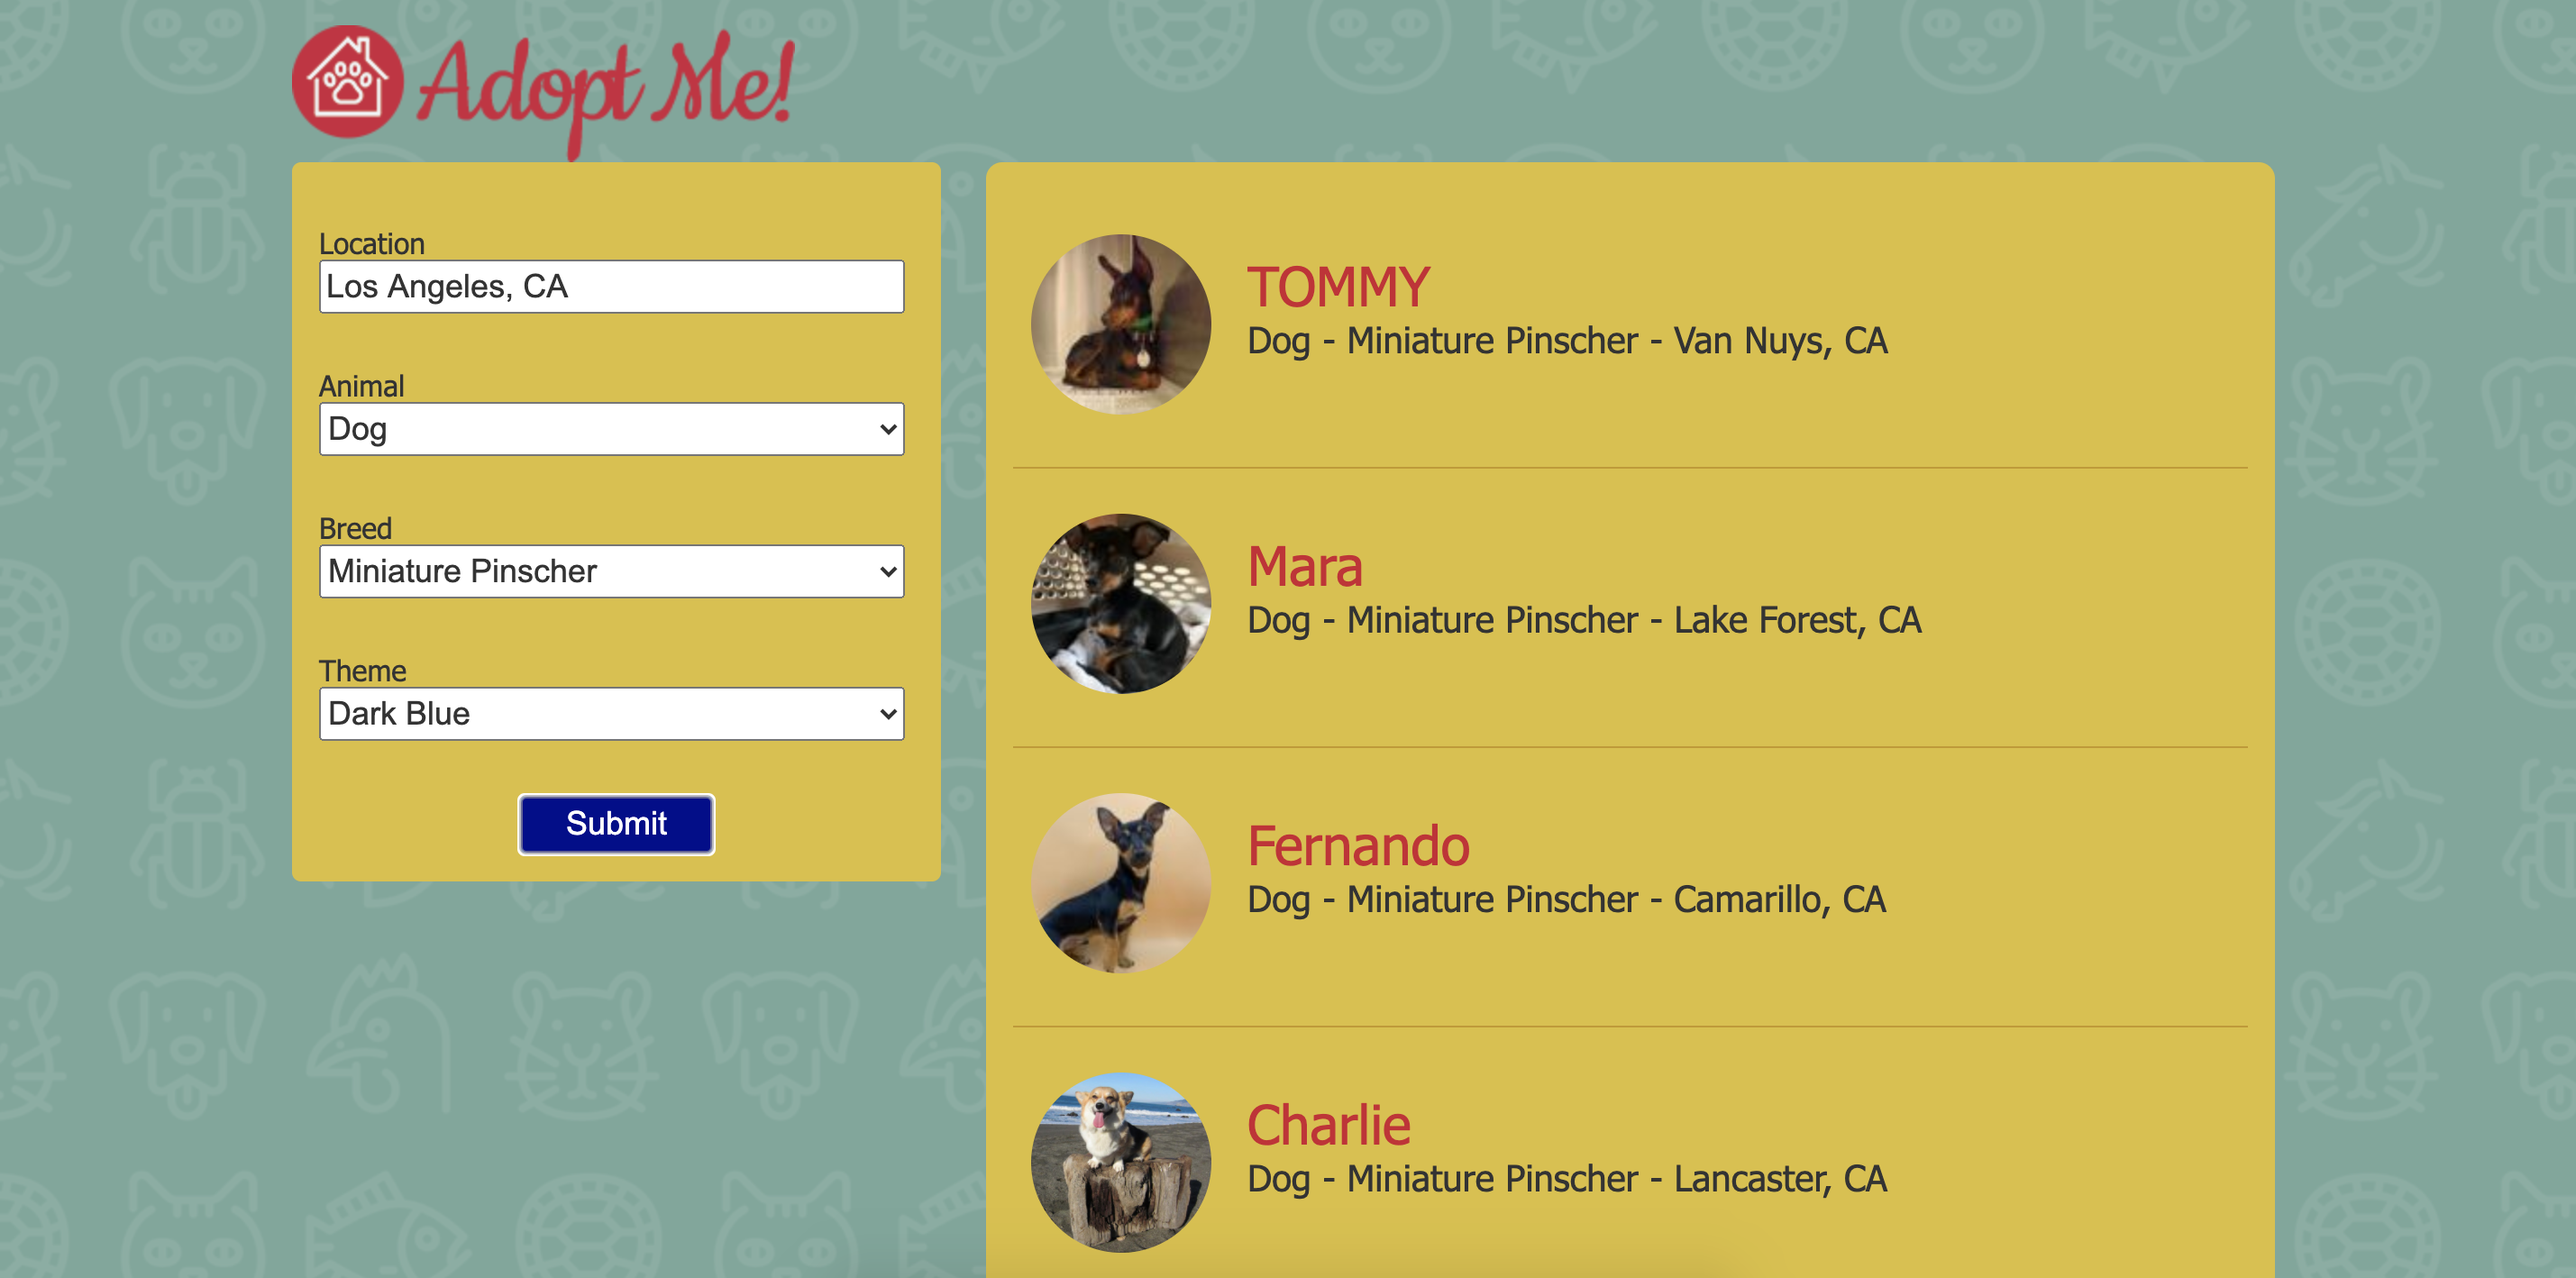
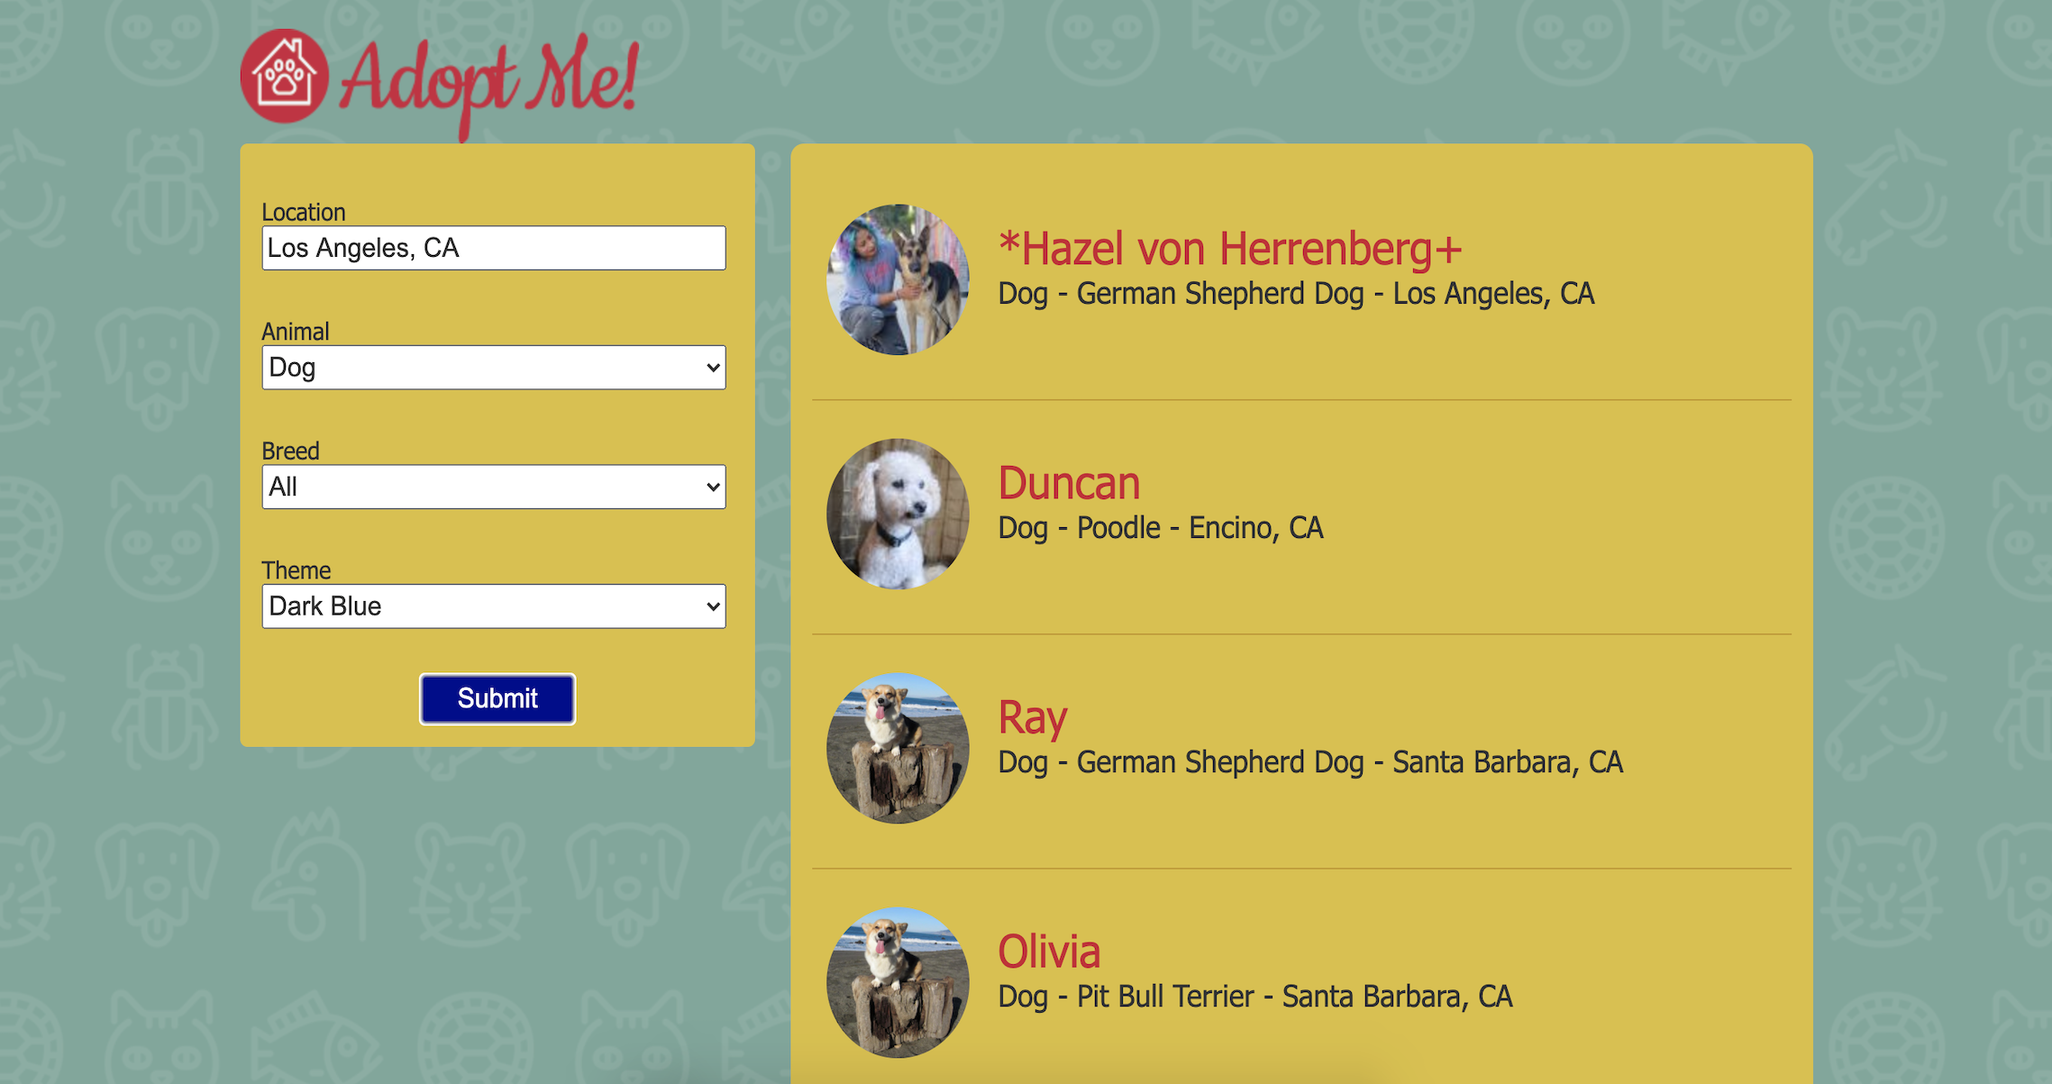
Fixed responsive

diff --git a/css/style.css b/css/style.css
@@ -285,7 +285,7 @@ hr {
 
 .card img {
 	max-width: 100%;
-	height: 185px;
+	height: auto;
 	border-radius: 3px;
 }
 
@@ -352,15 +352,12 @@ hr {
 	padding: 90px 0 110px 0;
 }
 
-.email-info, .resume-info {
+.email-info {
 	display: flex;
 	align-items: center;
 }
 .email-info {
 	margin-right: 50px;
-}
-.resume-info {
-	margin-left: 50px;
 }
 
 .fa-envelope-o, .fa-file-text-o {
@@ -489,16 +486,13 @@ hr {
 	}
 	.card {
 		width: 40%;
-		height: 200px;
+		height: auto;
 		margin: 5%;
-	}	
-	.card-back a {
-		margin-bottom: 30px;
 	}	
 	#contact .sub-container2 {
 		flex-direction: column;
 	}
-	.email-info, .resume-info {
+	.email-info {
 		justify-content: flex-start;
 		margin-left: 27%;
 		margin-bottom: 55px;
@@ -506,14 +500,11 @@ hr {
 	}
 }
 
+/*Phone*/
 @media screen and (max-width: 770px) {
 	#contact .sub-container2 {
 		padding-top: 50px;
 	}
-}
-
-/*Phone*/
-@media screen and (max-width: 600px){
 	.container {
 		width: 97%;
 	}
@@ -596,7 +587,6 @@ hr {
 	}
 	.card {
 	  width: 90%;
-	  height: 250px;
 	  margin: 5%
 	}
 	#footer .sub-container {
@@ -604,7 +594,7 @@ hr {
 		padding: 15px 0;
 	}
 	#footer .logo {
-		margin-left: -1%;
+		width: auto;
 	}
 	#footer .links {
 		margin-top: 10px;
@@ -626,14 +616,8 @@ hr {
 	h3 {
 		text-align: center;
 	}
-	.card {
-		height: 200;
-	}
-	.email-info, .resume-info {
+	.email-info {
 		margin-left: 10%;;
-	}
-	#footer .logo {
-		margin-left: -12%;
 	}
 }	
 
